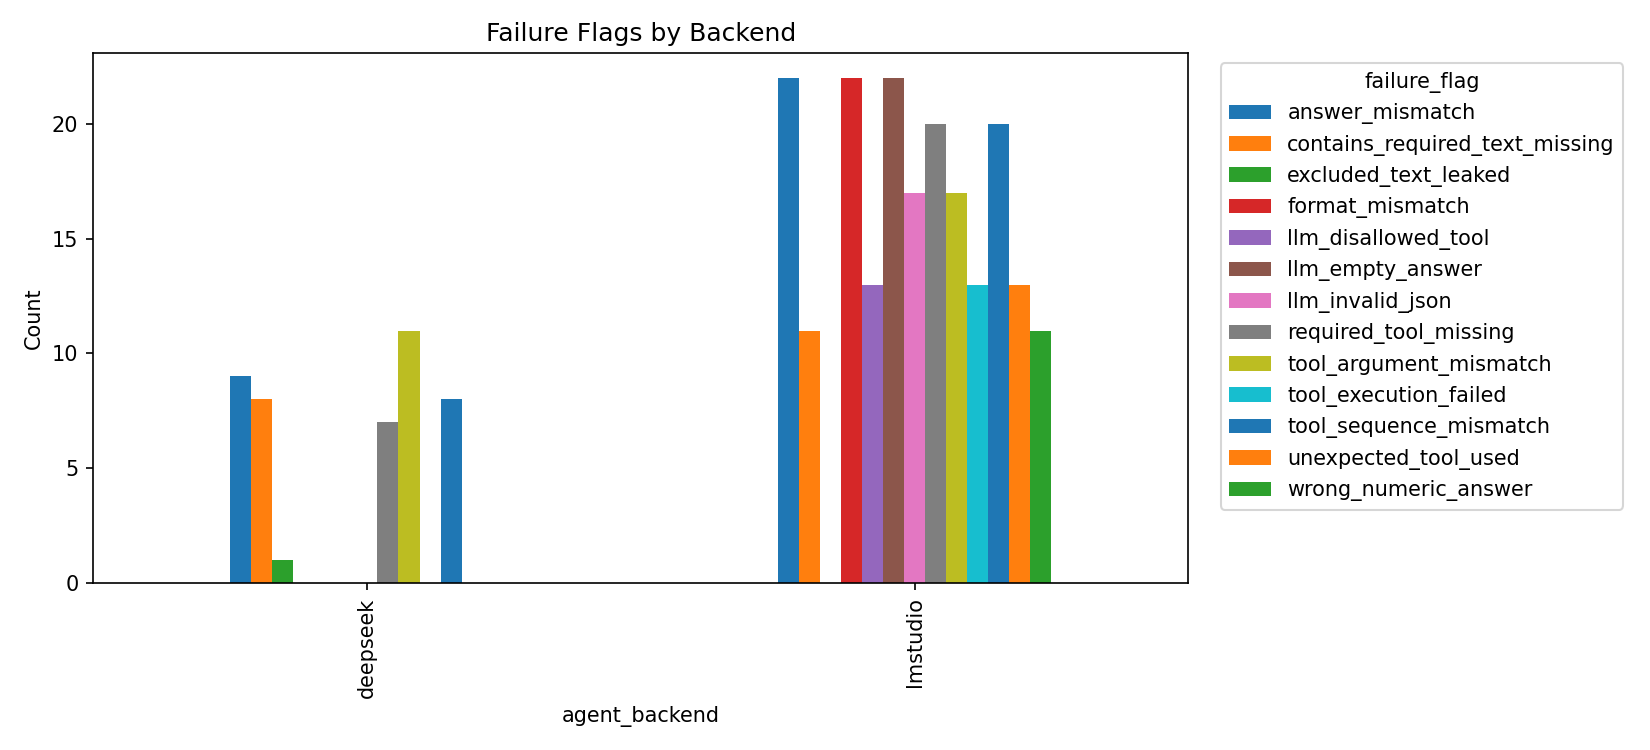
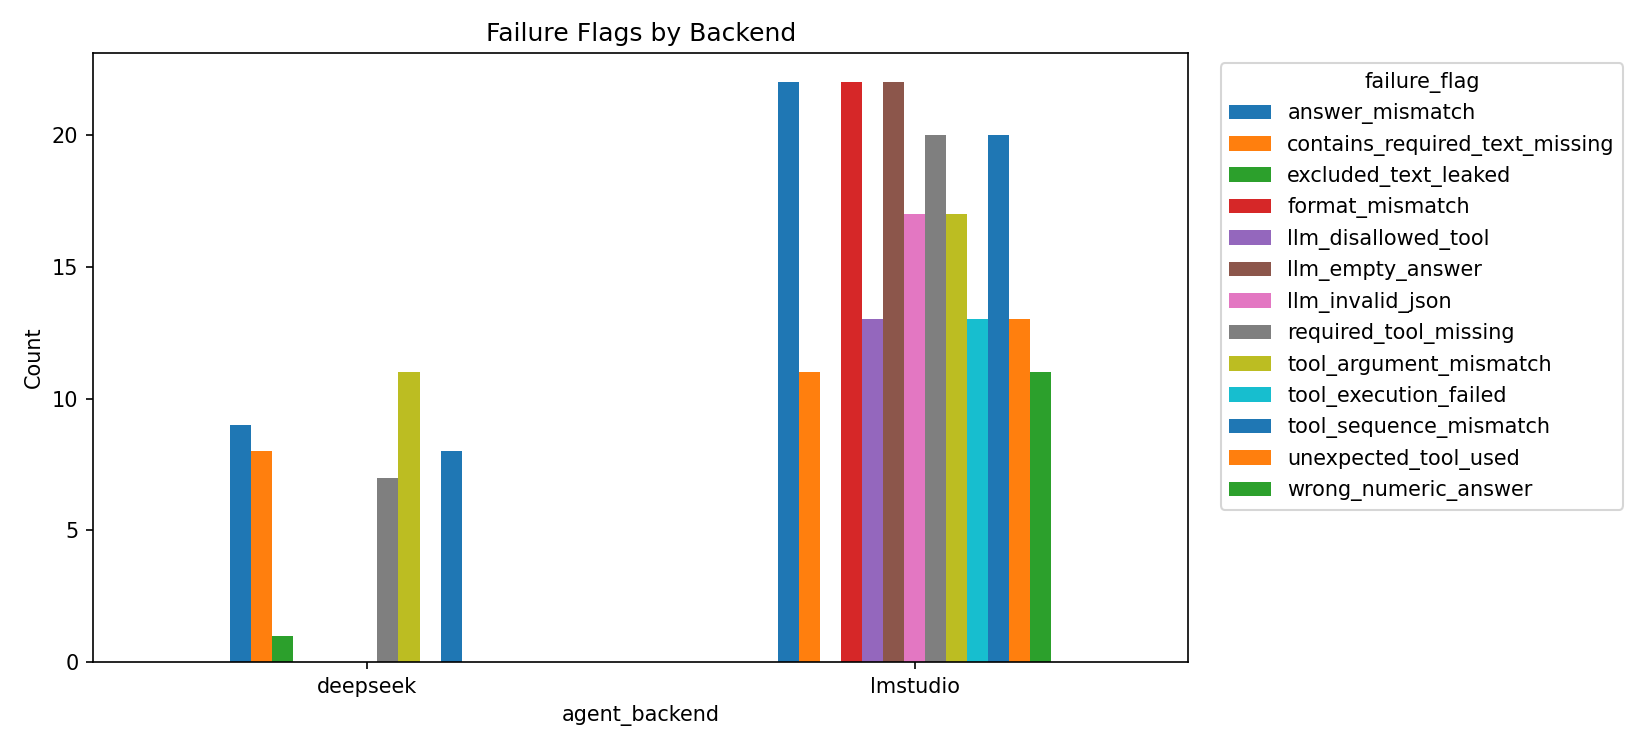
fix: keep compare chart x-axis labels horizontal

diff --git a/analysis.py b/analysis.py
@@ -316,6 +316,7 @@ def _plot_success_rate_by_backend_and_task_type(df: pd.DataFrame, fig_dir: Path)
     ax.set_ylim(0, 100)
     ax.set_ylabel("Success Rate (%)")
     ax.set_title("Success Rate by Backend and Task Type")
+    ax.tick_params(axis="x", rotation=0)
     ax.legend(title="task_type")
     plt.tight_layout()
     plt.savefig(fig_dir / "success_rate_by_backend_and_task_type.png", dpi=150)
@@ -329,6 +330,7 @@ def _plot_failure_type_by_backend(df: pd.DataFrame, fig_dir: Path) -> None:
     ax = pivot.plot(kind="bar", figsize=(10, 5))
     ax.set_ylabel("Count")
     ax.set_title("Failure Type by Backend")
+    ax.tick_params(axis="x", rotation=0)
     ax.legend(title="failure_type", bbox_to_anchor=(1.02, 1), loc="upper left")
     plt.tight_layout()
     plt.savefig(fig_dir / "failure_type_by_backend.png", dpi=150)
@@ -350,6 +352,7 @@ def _plot_failure_flags_by_backend(df: pd.DataFrame, fig_dir: Path) -> None:
     ax = pivot.plot(kind="bar", figsize=(11, 5))
     ax.set_ylabel("Count")
     ax.set_title("Failure Flags by Backend")
+    ax.tick_params(axis="x", rotation=0)
     ax.legend(title="failure_flag", bbox_to_anchor=(1.02, 1), loc="upper left")
     plt.tight_layout()
     plt.savefig(fig_dir / "failure_flags_by_backend.png", dpi=150)
